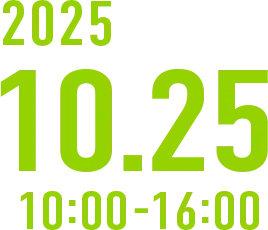
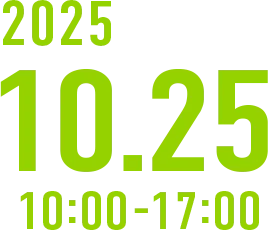
deploy: 6e230b9794a6087e1c2234649bbb88f601811ba2

Changed region(s): [[0.6567, 0.8217, 0.7463, 1.0]]

diff --git a/index.html b/index.html
@@ -168,28 +168,28 @@
       min-[400px]:*:w-[45%] xl:*:w-[24%]">
     <div class="flex flex-col justify-between">
       <div class="flex flex-1 items-center justify-center mb-4">
-        <img class="place-self-center align-middle" src="/img/top/outline/date.webp" />
+        <img class="place-self-center align-middle" src="/img/top/outline/date.webp" alt="2025 10.25 10:00-17:00" />
       </div>
       <p>開催日時</p>
     </div>
 
     <div class="flex flex-col justify-between">
       <div class="flex flex-1 items-center justify-center mb-4">
-        <img class="place-self-center align-middle" src="/img/top/outline//kurume-kappa.webp" />
+        <img class="place-self-center align-middle" src="/img/top/outline/kurume-kappa.webp" alt="福岡県のイラスト" />
       </div>
       <p class="whitespace-pre">福岡県久留米市<wbr />六ツ門町８−１</p>
     </div>
 
     <div class="flex flex-col justify-between">
       <div class="flex flex-1 items-center justify-center mb-4">
-        <img class="place-self-center align-middle" src="/img/top/outline//city-plaza.webp" />
+        <img class="place-self-center align-middle" src="/img/top/outline/city-plaza.webp" alt="ビルのイラスト" />
       </div>
-      <p class="whitespace-pre">久留米市<wbr />シティプラザ</p>
+      <p class="whitespace-pre">久留米<wbr />シティプラザ</p>
     </div>
 
     <div class="flex flex-col justify-between">
       <div class="flex flex-1 items-center justify-center mb-4">
-        <img class="place-self-center align-middle" src="/img/top/outline//free.webp" />
+        <img class="place-self-center align-middle" src="/img/top/outline/free.webp" alt="FREE" />
       </div>
       <p>参加無料</p>
     </div>
